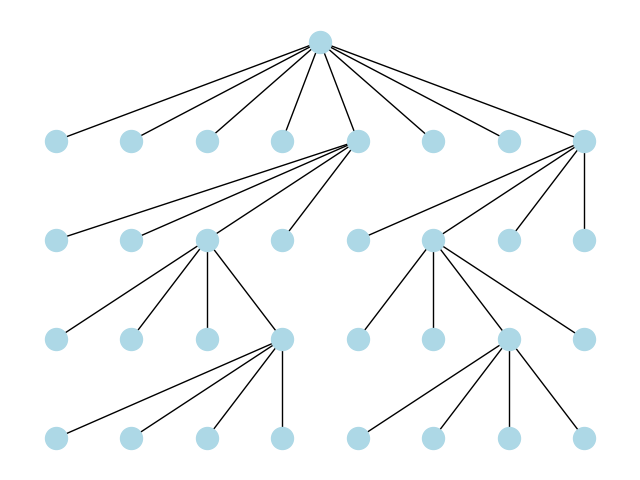
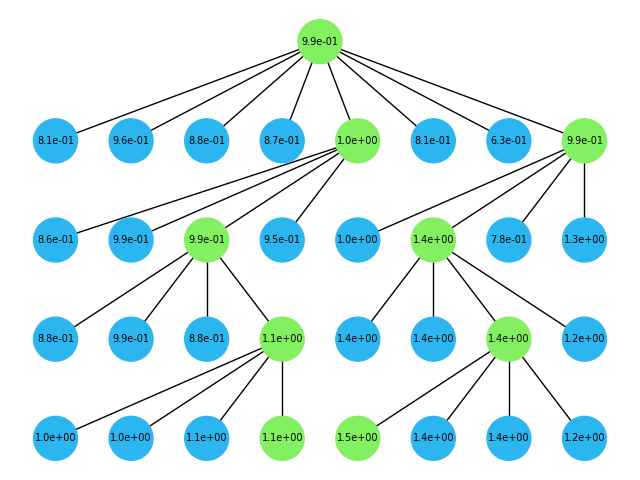
improved tree visual

diff --git a/drakes_protein/fmif/align_utils.py b/drakes_protein/fmif/align_utils.py
@@ -42,29 +42,31 @@ class TreeStateSampler():
         self.depth = depth
         self.child_n = child_n
 
-    def gen_tree_visual(self, gen_states, num_states, num_gens):
+    def gen_tree_visual(self, gen_states, num_states, num_gens, labels):
         G = nx.DiGraph()
+        color_map = {}
 
-        G.add_node("Root")
+        G.add_node(G.size(), label=labels[0][0][0])
+        color_map[G.size()] = '#83F061'
 
-        prev_layer_parents = ["Root"]
+        prev_layer_parents = [0]
         for i, level in enumerate(num_states):
             new_prev_layer = []
             gen_state = gen_states[i]
             for j, n in enumerate(level):
                 parent = prev_layer_parents[j]
                 new_nodes = []
-                for _ in range(n):
-                    new_node = str(G.size())
+                for k in range(n):
+                    new_node = G.size() + 1
                     new_nodes.append(new_node)
-                    G.add_node(new_node)
+                    G.add_node(new_node, label=labels[i][j][k])
                     G.add_edge(parent, new_node)
                 w = num_gens[i][j]
                 new_parents = []
                 for k in range(w):
+                    color_map[new_nodes[gen_state[k]]] = '#83F061'
                     new_parents.append(new_nodes[gen_state[k]])
-                new_parents = new_parents[::-1]
-                new_prev_layer.extend(new_parents)
+                new_prev_layer.extend(sorted(new_parents))
                 gen_state = gen_state[w:]
             prev_layer_parents = new_prev_layer
             if i == 3:
@@ -73,9 +75,11 @@ class TreeStateSampler():
         for i, layer in enumerate(reversed(list(nx.topological_generations(G)))):
             for n in layer:
                 G.nodes[n]["layer"] = i
-
+        
+        labels = {node: data["label"] for node, data in G.nodes(data=True)}
+        node_colors = [color_map.get(node, "#2BB6F0") for node in G.nodes()]
         pos = nx.multipartite_layout(G, subset_key="layer", align="horizontal")
-        nx.draw(G, pos, with_labels=False, node_size=250, node_color="lightblue", font_size=16, font_weight="bold", arrows=False)
+        nx.draw(G, pos, with_labels=True, labels=labels, node_size=1000, node_color=node_colors, font_size=7, arrows=False)
         plt.savefig('tree.png')
 
 
@@ -173,6 +177,7 @@ class BeamSampler(TreeStateSampler):
         gen_states = []
         num_states = []
         num_gens = []
+        labels = []
         sampler = self.sampler_gen(self.initial_state)
         bon_sampler = BONSampler(sampler=sampler, W=self.W, n=self.child_n) 
         for i in range(self.depth - 1):
@@ -180,6 +185,7 @@ class BeamSampler(TreeStateSampler):
                 gen_states.append([])
                 num_states.append([])
                 num_gens.append([])
+                labels.append([])
 
             next_states = []
             for state in states:
@@ -190,18 +196,19 @@ class BeamSampler(TreeStateSampler):
                 n_ = self.child_n if i == 0 else self.child_n // self.W
                 bon_sampler = BONSampler(sampler=sampler, n=n_, W=w_)
 
-                samples, top_indices, _ = bon_sampler.sample_aligned()
+                samples, top_indices, rewards = bon_sampler.sample_aligned()
                 next_states += [samples[i] for i in top_indices]
 
                 if self.save_visual:
                     gen_states[-1].extend([int(k.item()) for k in top_indices])
                     num_states[-1].append(n_)
                     num_gens[-1].append(w_)
+                    labels[-1].append([f"{r.item():.1e}" for r in rewards])
                     
             states = next_states
         
         if self.save_visual:
-            self.gen_tree_visual(gen_states, num_states, num_gens)
+            self.gen_tree_visual(gen_states, num_states, num_gens, labels)
 
         max_state = max(states, key=lambda s : s.calc_reward())
 
